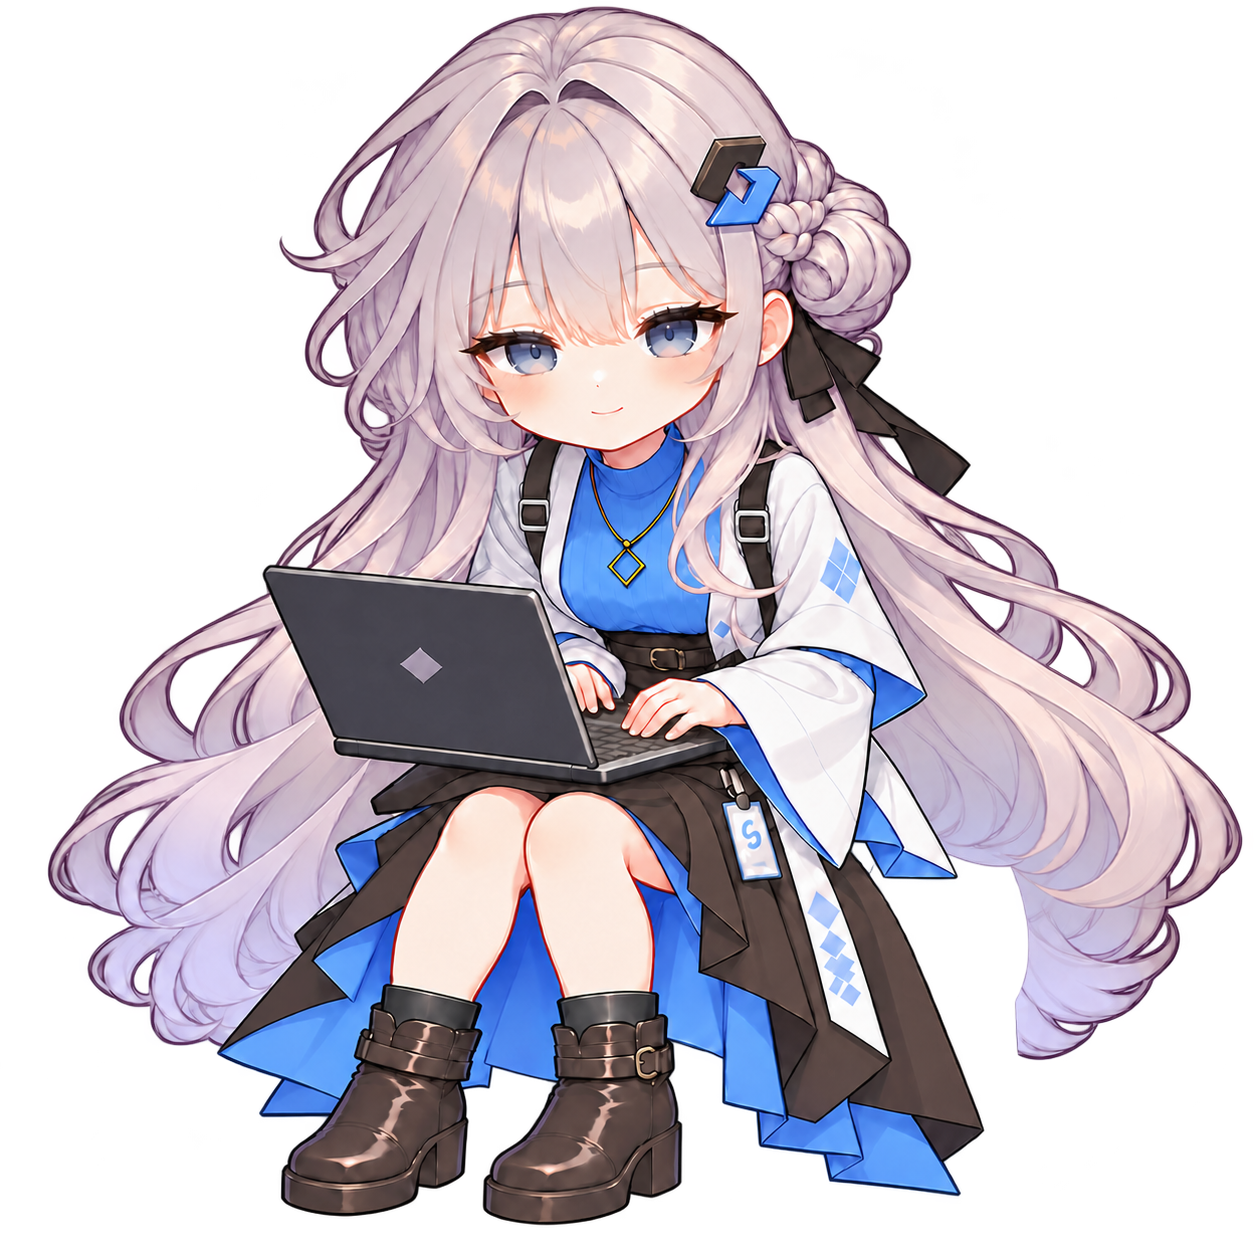
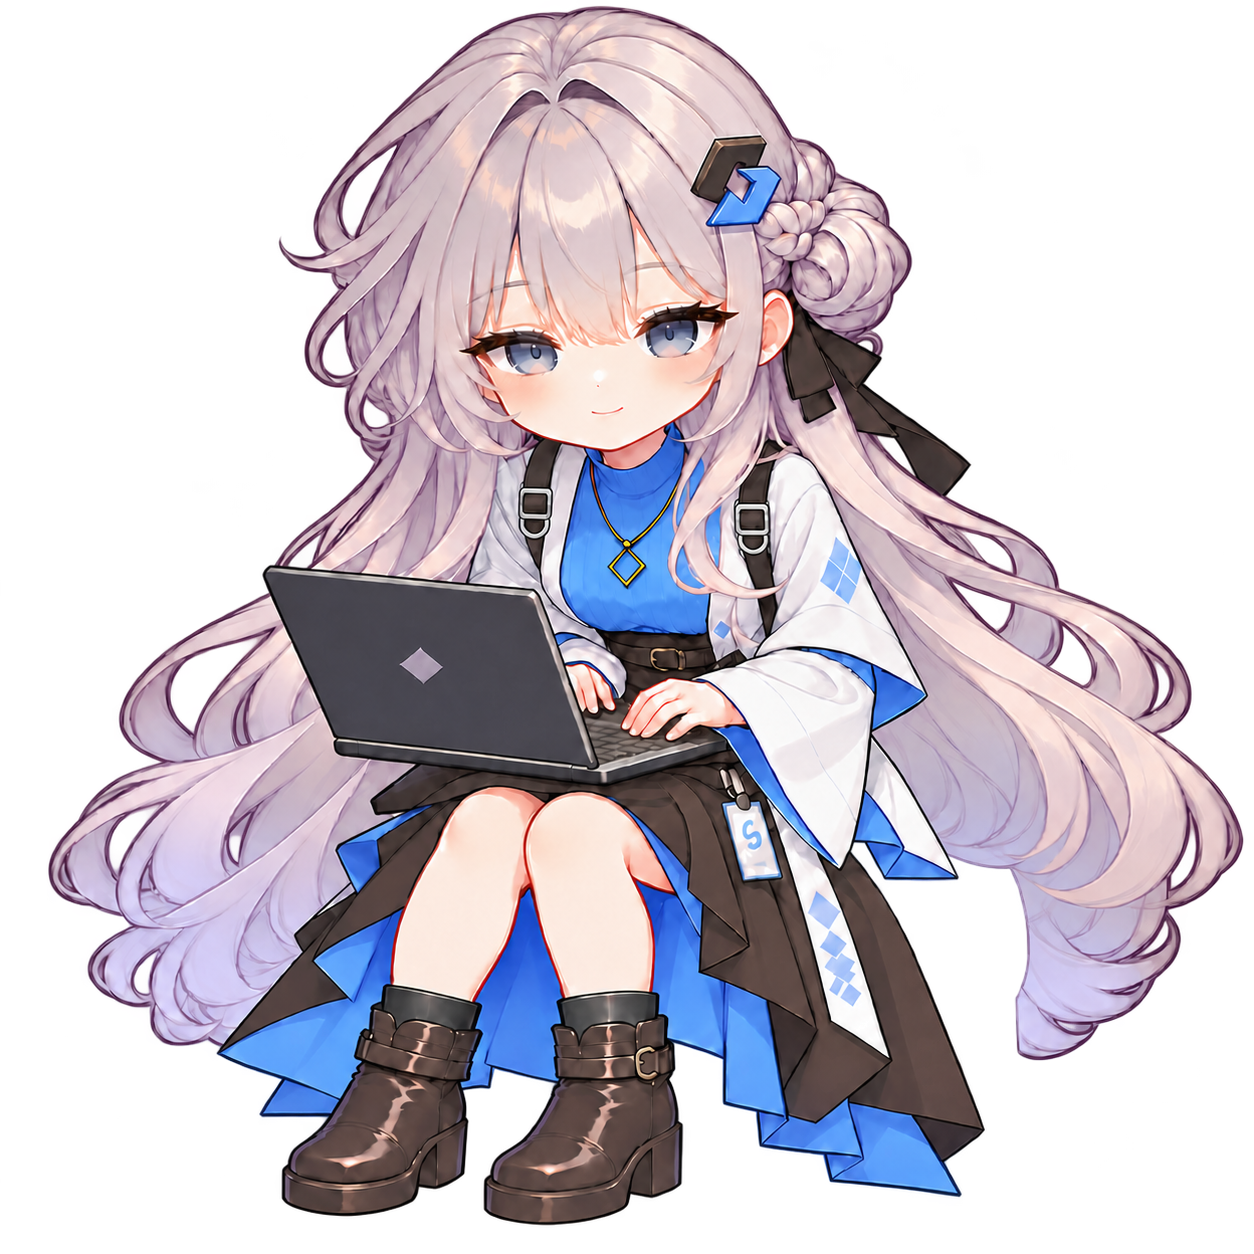
art(companion): preserve reference costume hardware in listening pose

diff --git a/source/animation-source/production-v5/reference/appearance-contract.md b/source/animation-source/production-v5/reference/appearance-contract.md
@@ -1,0 +1,13 @@
+# 外观连续性参考
+
+以 `open-neutral.png` 的实际画面为人物结构参考，不用动作名称或口头简化替代看图。姿势/透视/衣料受力可以变化，身份与服饰结构保持同一套。
+
+- 蓝色眼睛、原眼睑构造与脸型；真实表情不要求脸部像素冻结，也不能不断改成更圆更幼的新脸。
+- 同一额发分区、发髻、黑蓝发饰；可自然随胸肩运动，不额外增加发饰或改变发量。
+- 金色细链、空心菱形吊坠；可随重心摆动，不改成实心宝石或另一种连接结构。
+- 每侧肩带是一组扣件，包含上方矩形调节部分及下方圆/D形连接部分。不要误简化成一个平矩形，也不要增生任意多环；动作遮挡不要求所有部件都同时露出。
+- 衣袖、白外套蓝色图案、腰带、黑裙蓝内里与靴子遵守同一构造。褶线随动作变，图案、徽牌不得无故消失或增生。保留原徽牌的蓝色图形，不另编姓名。
+- 凳子采用配方中的冻结原图；参考图里模型重绘的凳体不是几何依据。
+- 电脑开/合端点必须属于同一个实际机械过程。闭盖图漂亮不代表与开盖铰链兼容；校准动作输入以当前机械研究为准，不能硬切两个独立生图端点。
+
+只把实际正常 alpha 合成下可见的杂边当视觉问题。曾见的多数强洋红 raw-RGB 像素实际 alpha 不超过5/255，不能据透明像素RGB误判；可见白斑、轮廓漂移则必须修。
